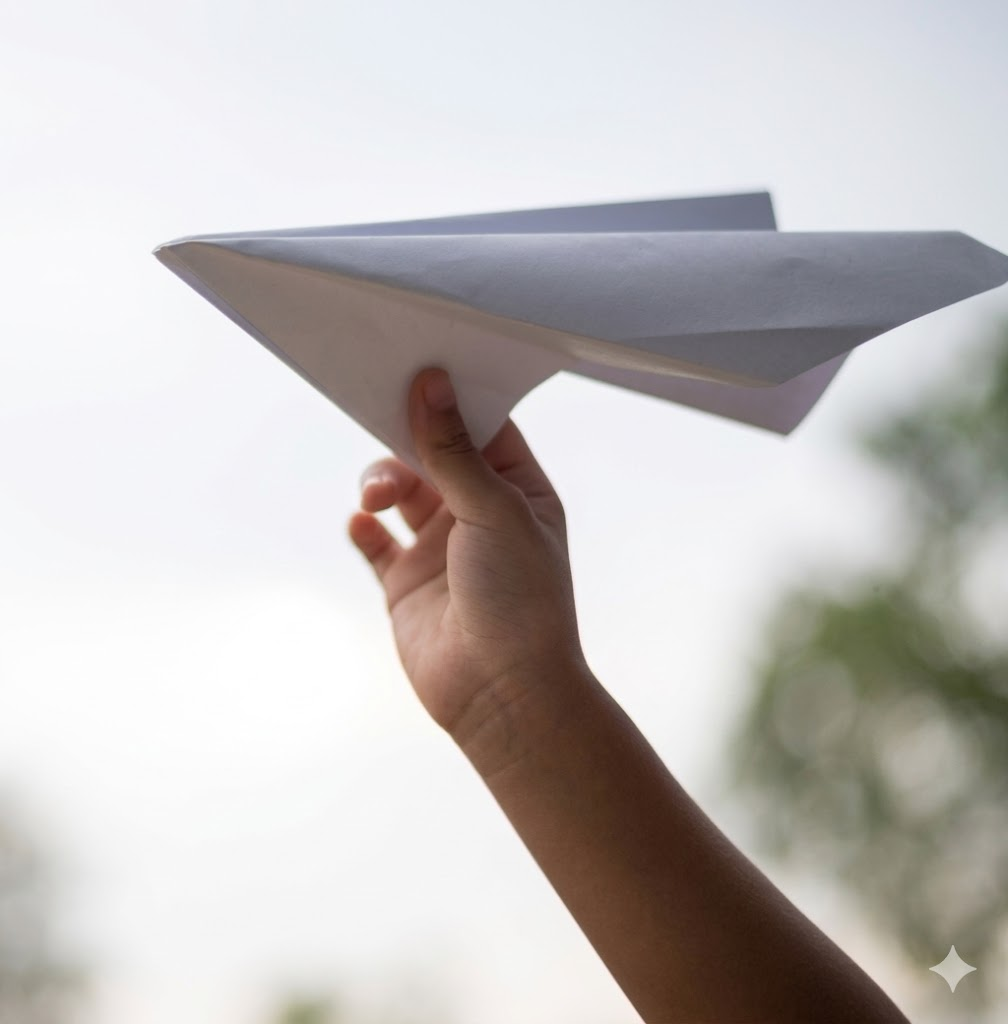
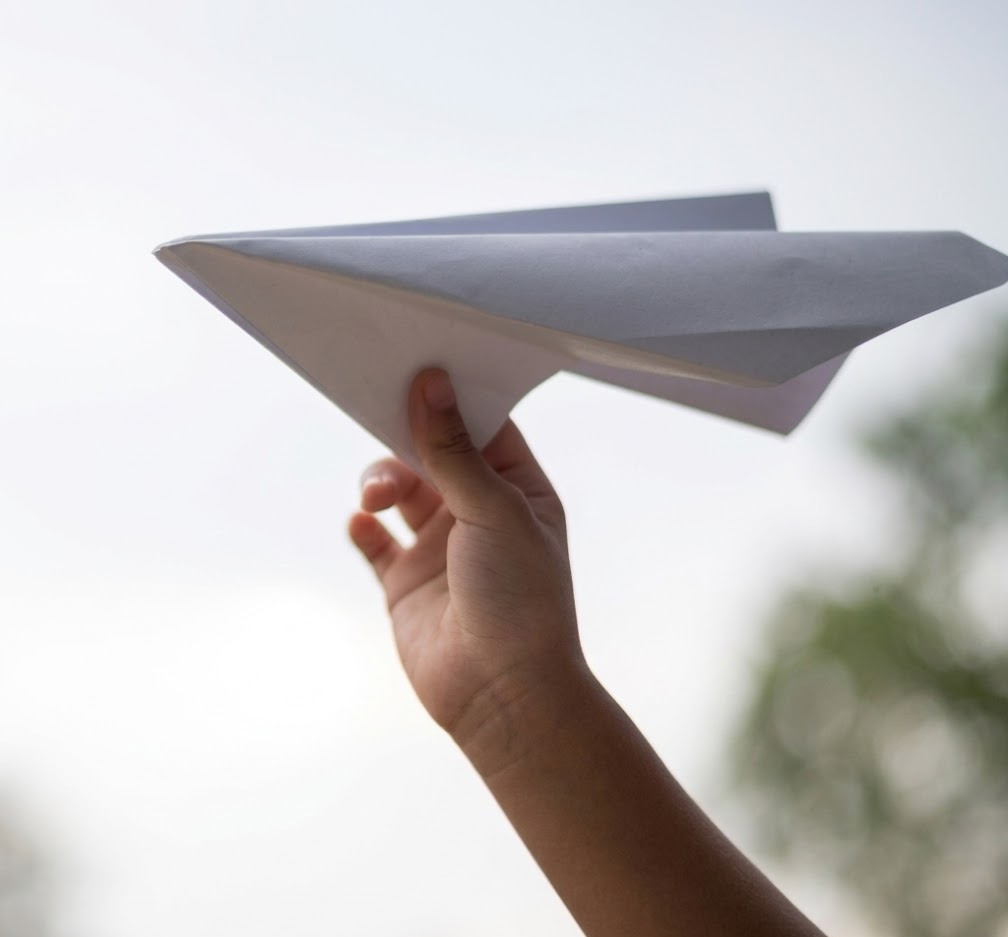
fix: message page

diff --git a/src/components/home/SendMessage.tsx b/src/components/home/SendMessage.tsx
@@ -1,8 +1,35 @@
-import { Input, Label, Textarea } from '@relume_io/relume-ui'
+import { Input, Label } from '@relume_io/relume-ui'
 import sendMessageImage from '../../assets/message-us.jpg'
 import { SectionBody, SectionEyebrow, SectionTitle } from '../ui/Typography'
+import { type FormEvent, useState } from 'react'
+
+const CONTACT_EMAIL = 'bhuynh@tutorstudio.dev'
 
 export function SendMessage() {
+  const [fields, setFields] = useState<FormFields>({ name: '' })
+  const [submitMessage, setSubmitMessage] = useState('')
+
+  function handleSubmit(event: FormEvent<HTMLFormElement>) {
+    event.preventDefault()
+
+    const name = fields.name.trim()
+    const subject = 'Tutoring inquiry'
+    const body = [
+      'Hello Bon,',
+      '',
+      'I would like to learn more about tutoring sessions.',
+      '',
+      `Name: ${name || 'Not provided'}`,
+      '',
+      'Thanks,',
+      name || 'Prospective student',
+    ].join('\n')
+
+    const gmailComposeUrl = `https://mail.google.com/mail/?view=cm&fs=1&to=${encodeURIComponent(CONTACT_EMAIL)}&su=${encodeURIComponent(subject)}&body=${encodeURIComponent(body)}`
+    window.open(gmailComposeUrl, '_blank', 'noopener,noreferrer')
+
+    setSubmitMessage('Gmail compose opened in a new tab with a pre-filled draft.')
+  }
   return (
     <section id="sendmessage" className="w-full bg-ui-surface-muted px-[5%] py-16 md:px-16 md:py-28">
       <div className="mx-auto grid w-full max-w-[1280px] grid-cols-1 items-center gap-12 lg:grid-cols-2 lg:gap-20">
@@ -24,64 +51,42 @@ export function SendMessage() {
               Send a message
             </SectionTitle>
             <SectionBody className="text-[18px] leading-[1.5] text-ui-text-primary">
-              Fill out the form below to contact me.
+              Share your name and we'll open a pre-filled email draft for you.
             </SectionBody>
           </div>
-
-          <form className="grid grid-cols-1 gap-6">
+            <form className="grid grid-cols-1 gap-6" onSubmit={handleSubmit}>
             <div className="grid w-full items-center">
-              <Label htmlFor="first-name" className="mb-2 text-sm font-semibold text-ui-text-primary">
-                First name
+              <Label htmlFor="name" className="mb-2 text-sm font-semibold text-[#06080b]">
+                Name
               </Label>
               <Input
                 type="text"
-                id="first-name"
-                className="h-12 rounded-xl border-ui-border-subtle bg-ui-surface-base px-4 text-base text-ui-text-primary"
-              />
-            </div>
-
-            <div className="grid w-full items-center">
-              <Label htmlFor="last-name" className="mb-2 text-sm font-semibold text-ui-text-primary">
-                Last name
-              </Label>
-              <Input
-                type="text"
-                id="last-name"
-                className="h-12 rounded-xl border-ui-border-subtle bg-ui-surface-base px-4 text-base text-ui-text-primary"
-              />
-            </div>
-
-            <div className="grid w-full items-center">
-              <Label htmlFor="email" className="mb-2 text-sm font-semibold text-ui-text-primary">
-                Email
-              </Label>
-              <Input
-                type="email"
-                id="email"
-                className="h-12 rounded-xl border-ui-border-subtle bg-ui-surface-base px-4 text-base text-ui-text-primary"
-              />
-            </div>
-
-            <div className="grid w-full items-center">
-              <Label htmlFor="message" className="mb-2 text-sm font-semibold text-ui-text-primary">
-                Message
-              </Label>
-              <Textarea
-                id="message"
-                placeholder="Type your message..."
-                className="min-h-[11.25rem] rounded-xl border-ui-border-subtle bg-ui-surface-base px-4 py-3 text-base text-ui-text-primary"
+                id="name"
+                name="name"
+                value={fields.name}
+                onChange={(event) => setFields({ name: event.target.value })}
+                className="h-12 rounded-xl border-black/15 bg-white px-4 text-base text-[#06080b]"
               />
             </div>
 
             <div>
               <button
                 type="submit"
-                className="inline-flex items-center rounded-[12px] bg-ui-brand px-3 py-1.5 font-body text-base font-medium text-ui-text-inverse transition hover:bg-ui-brand-hover"
+                className="inline-flex items-center rounded-[12px] bg-[#5e8ed8] px-3 py-1.5 font-body text-base font-medium text-white transition hover:bg-[#4f80cb]"
               >
-                Send message
+                Open Gmail draft
               </button>
+
+              <p className="mt-3 text-sm text-[#06080b]">
+                Prefer your own email client? Send directly to{' '}
+                <span className="select-all font-semibold">{CONTACT_EMAIL}</span>
+              </p>
+
+              {submitMessage ? <p className="mt-3 text-sm text-[#06080b]">{submitMessage}</p> : null}
             </div>
           </form>
+
+          
         </div>
       </div>
     </section>
